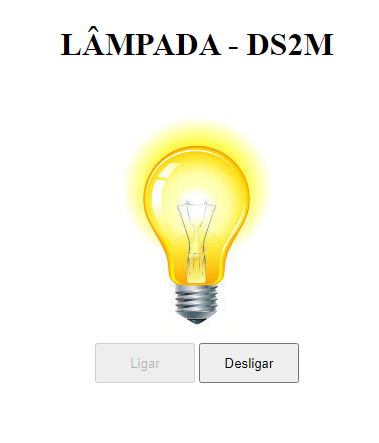
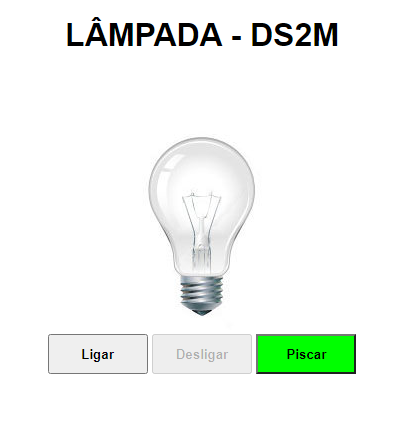
README atualizado

diff --git a/README.md b/README.md
@@ -9,3 +9,5 @@ O projeto consiste em criar uma lâmpada que tenha três ações:
 Todo o código foi construído seguindo as boas práticas como responsabilidade única e funções puras.
 
 ![](img/projeto.png)
+
+![](img/parar.png)
